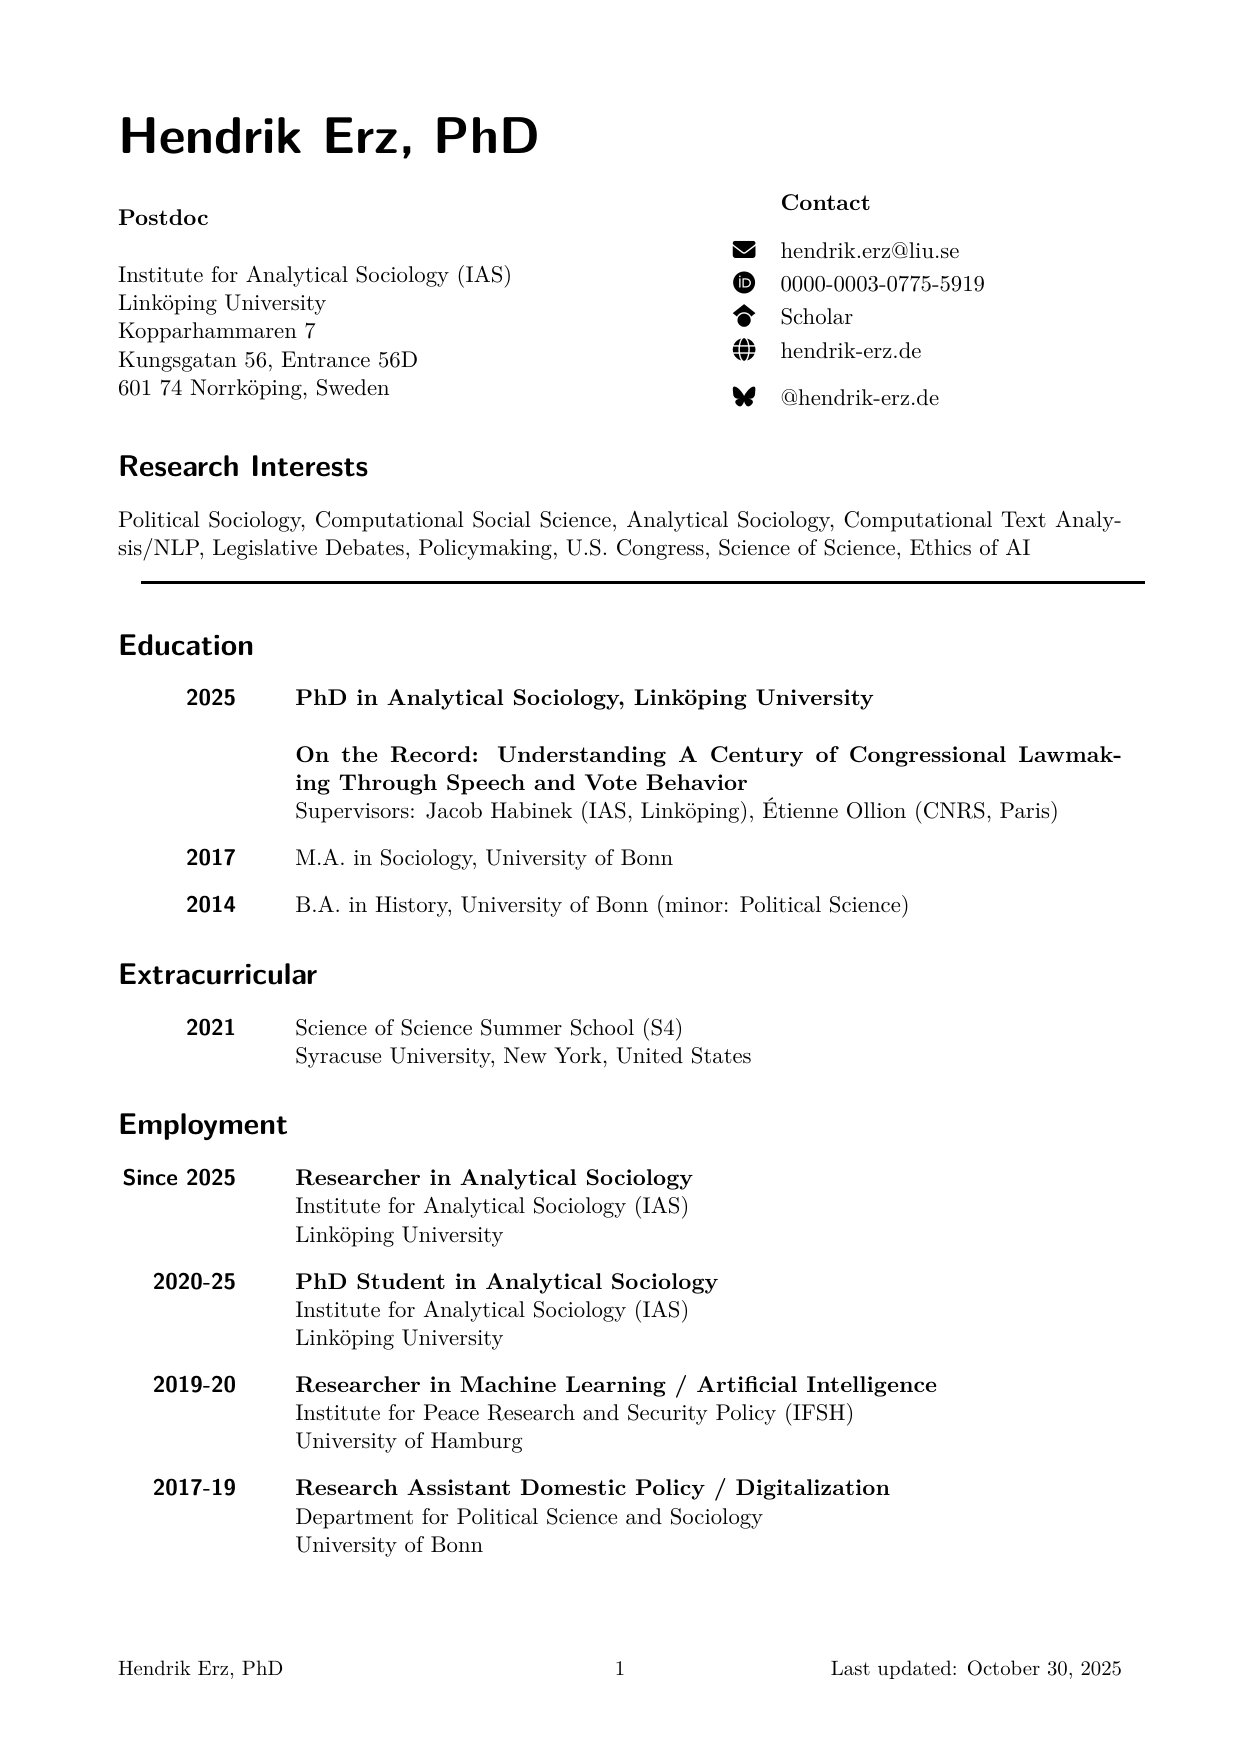
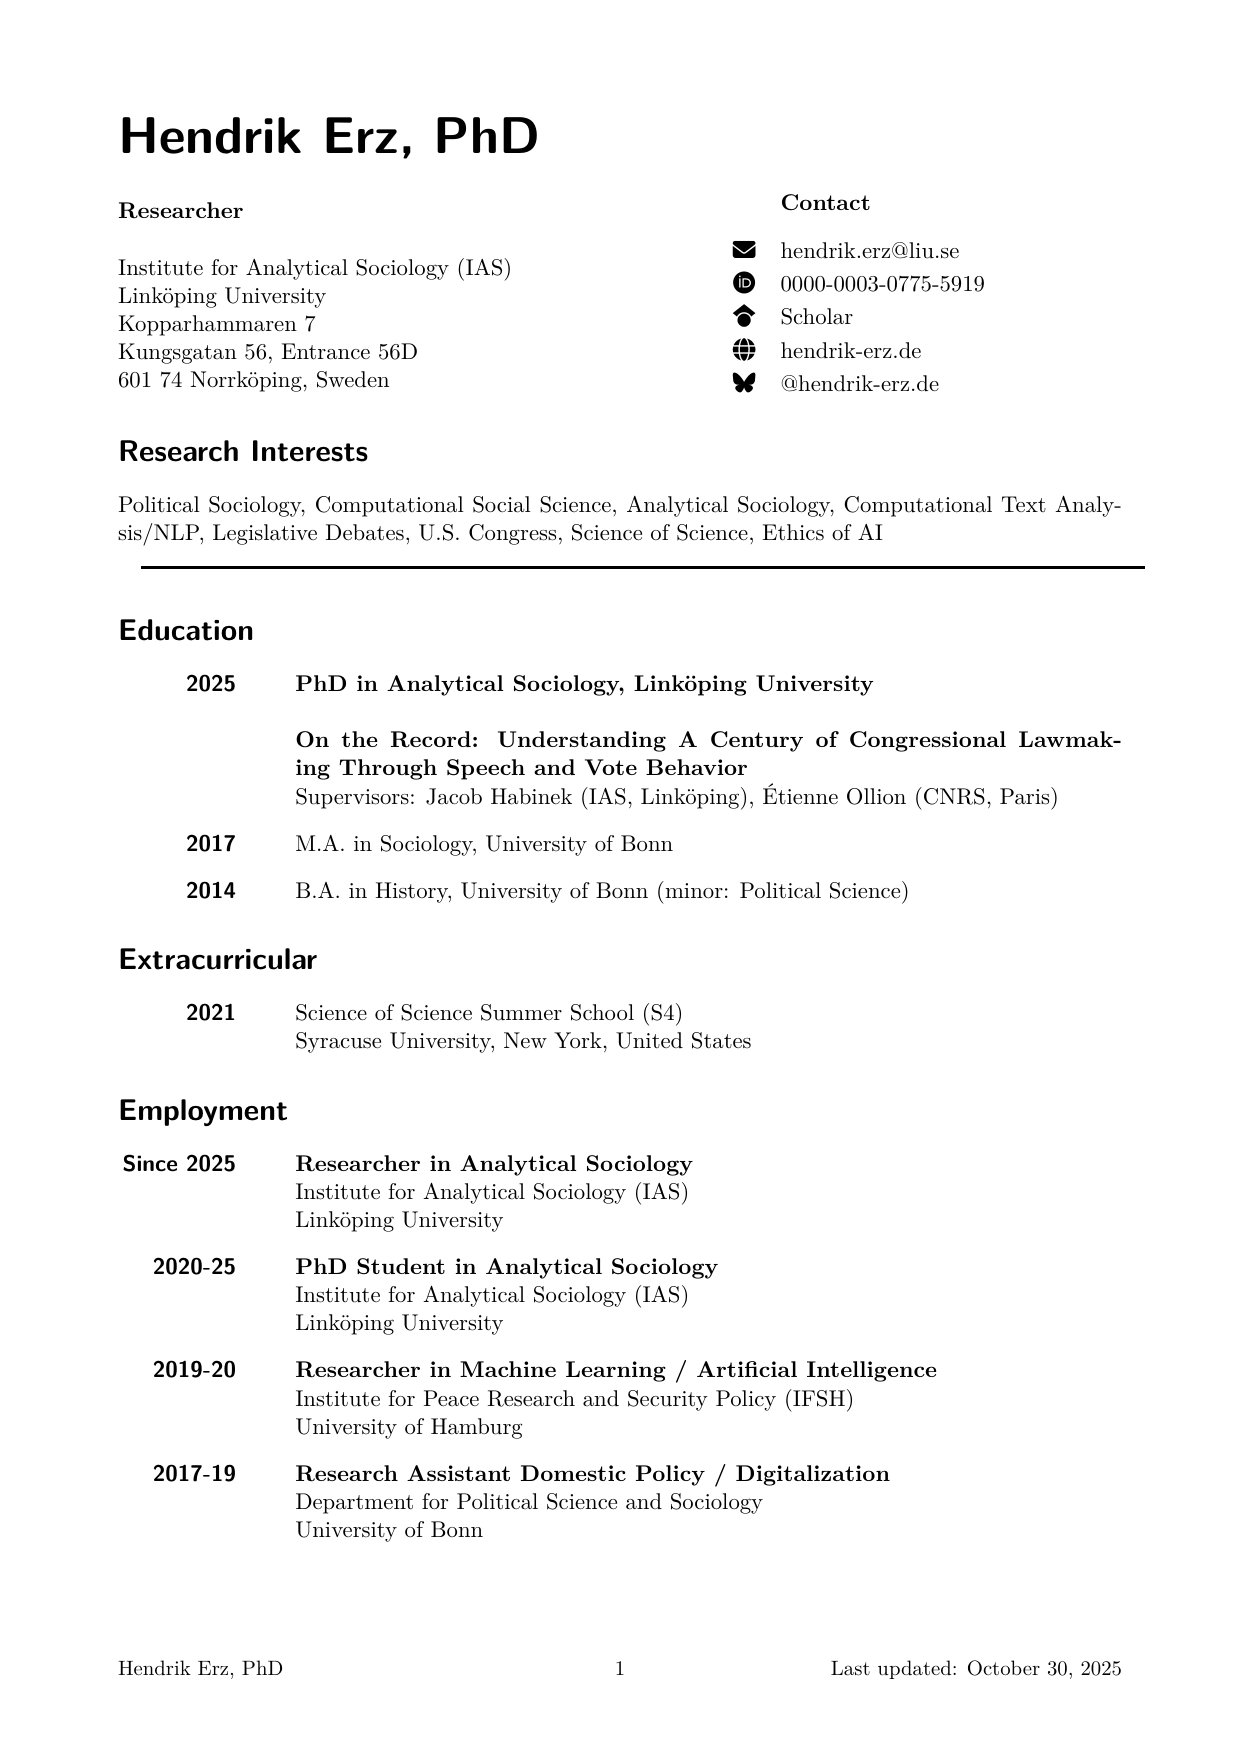
chore: Recreate PDF

diff --git a/CV.stub.html b/CV.stub.html
@@ -1,6 +1,6 @@
 <!-- NOTE: Stub-template, because I (personally) don't need a full HTML file. -->
 <h1>Hendrik Erz, PhD</h1>
-<p id="occupation">Postdoc</p>
+<p id="occupation">Researcher</p>
 
 <dl id="metadata">
   <dt>Address</dt>
@@ -64,8 +64,8 @@
 <!-- Next comes the main body (if there was some) -->
 <h1 id="research-interests">Research Interests</h1>
 <p>Political Sociology, Computational Social Science, Analytical
-Sociology, Computational Text Analysis/NLP, Legislative Debates,
-Policymaking, U.S. Congress, Science of Science, Ethics of AI</p>
+Sociology, Computational Text Analysis/NLP, Legislative Debates, U.S.
+Congress, Science of Science, Ethics of AI</p>
 
 <!-- Now come the sections -->
 <h1 class="section-heading">Education</h1>
@@ -158,6 +158,11 @@ Issues With Off-The-Shelf Software.
   </dd>
     <dt></dt>
   <dd>
+        Alexandra Dirksen, Sebastian Giessler, <strong>Hendrik
+Erz</strong>. Ethics in Computer Science and Security Research. 
+  </dd>
+    <dt></dt>
+  <dd>
         <strong>Peer-Reviewed Articles</strong> 
   </dd>
     <dt>2025</dt>
@@ -166,10 +171,10 @@ Issues With Off-The-Shelf Software.
 World: Exploring gender-based differences in acknowledgment patterns and
 support systems in theses. Data and Information Management 100092.  
   </dd>
-    <dt></dt>
+    <dt>2024</dt>
   <dd>
         Alexandra Dirksen, Sebastian Giessler, <strong>Hendrik
-Erz</strong>, Martin Johns, Tobias Fiebig (2025). Don’t Patch the
+Erz</strong>, Martin Johns, Tobias Fiebig (2024). Don’t Patch the
 Researcher, Patch the Game: A Systematic Approach for Responsible
 Research via Federated Ethics Boards. <em>Proceedings of the New
 Security Paradigms Workshop</em>, 126–141. New York, NY, USA:
@@ -394,10 +399,17 @@ Chemnitz, Germany.
         Lecture and workshop in ethics for CSS<br>
         Lecture and workshop in Computational Text Analysis 
   </dd>
-    <dt>2022-2024</dt>
+    <dt>Since 2024</dt>
+  <dd>
+        **Behavioral Mechanisms in the Social Sciences<br>
+        M.Sc. program; Lecturer (course director: Rodrigo Martínez
+Peña); Linköping University 
+  </dd>
+    <dt>Since 2022</dt>
   <dd>
         <strong>Digital Strategies for the Social Sciences</strong><br>
-        M.Sc. program; Teaching Assistant; Linköping University 
+        M.Sc. program; Teaching Assistant (2022-2024) and Course
+Director (Since 2025); Linköping University 
   </dd>
     <dt>2023</dt>
   <dd>
@@ -466,8 +478,8 @@ Social Science (SIRCSS), Norrköping, Sweden (with PI Jacob Habinek)
   </dd>
     <dt>Since 2022</dt>
   <dd>
-        Website administration; International Network of Analytical
-Sociologists (INAS) 
+        Website administration and newsletter; International Network of
+Analytical Sociologists (INAS) 
   </dd>
     <dt>2025</dt>
   <dd>
@@ -533,10 +545,10 @@ Norrköping, Sweden (with PI Jacob Habinek)
 <dl id="Referees" class="section">
     <dt></dt>
   <dd>
-        Prof. Dr. Marc Keuschnigg (<a href="mailto:marc.keuschnigg@uni-leipzig.de" class="email">marc.keuschnigg@uni-leipzig.de</a>)<br>
-        Prof. Dr. Jacob Habinek (<a href="mailto:jacob.habinek@liu.se" class="email">jacob.habinek@liu.se</a>)<br>
-        Prof. Dr. Étienne Ollion (<a href="mailto:etienne.ollion@polytechnique.edu" class="email">etienne.ollion@polytechnique.edu</a>)<br>
-        Prof. Dr. Peter Hedström (<a href="mailto:peter.hedstrom@liu.se" class="email">peter.hedstrom@liu.se</a>) 
+        Prof. Dr. Marc Keuschnigg<br>
+        Prof. Dr. Jacob Habinek<br>
+        Prof. Dr. Étienne Ollion<br>
+        Prof. Dr. Peter Hedström 
   </dd>
   </dl>
 <h1 class="section-heading">Academic Software</h1>
@@ -555,7 +567,7 @@ Norrköping, Sweden (with PI Jacob Habinek)
     <dt></dt>
   <dd>
         German (native), English (fluent, C1),<br>
-        Swedish (Moderate, B1), French (Moderate, A2) 
+        Swedish (Moderate, A2), French (Moderate, A2) 
   </dd>
   </dl>
 <h1 class="section-heading">Programming Languages &amp; Frameworks</h1>
